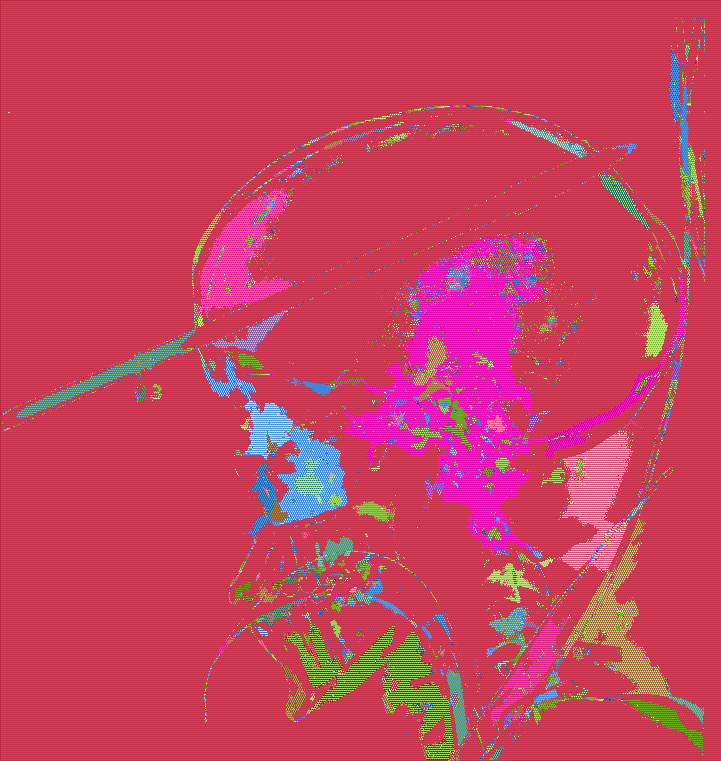
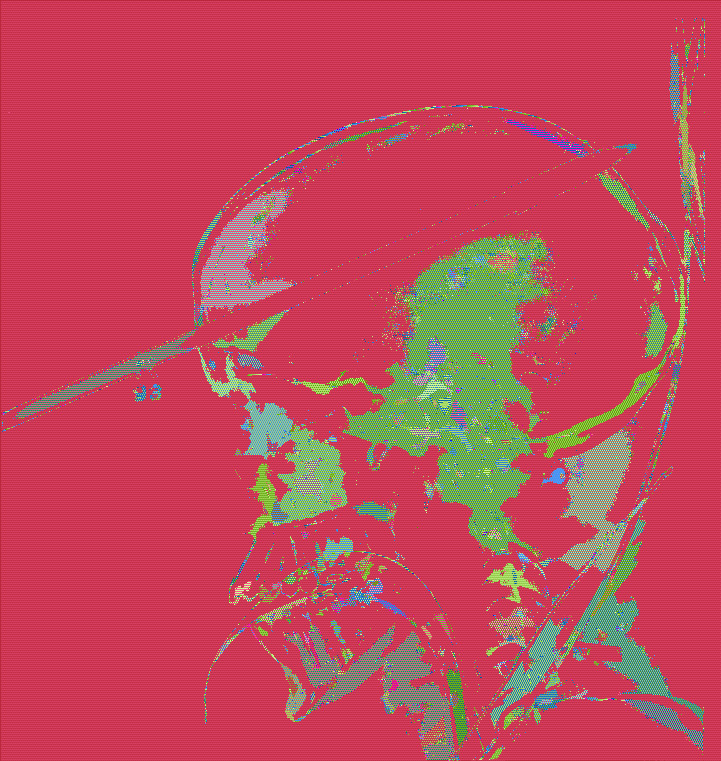
SOBEL_1 10 64

diff --git a/1course.c b/1course.c
@@ -96,7 +96,7 @@ void preprocess_image_Gauss(char * image, int width, int height, int n) {
                 for (y=1; y<=(height-2); y++)
                         for (i=-1; i<=1; i++)
                                 for (j=-1; j<=1; j++)
-                                        image[n*(y+j)*width + i + n*x + j] += s[1-i][1-j];
+                                        image[n*y*width + i + n*x + j] += s[1-i][1-j];
 }
 
 void preprocess_image_Sobel_y(char * image, int width, int height, int n) {
@@ -111,7 +111,7 @@ void preprocess_image_Sobel_y(char * image, int width, int height, int n) {
                 for (y=1; y<=(height-2); y++)
                         for (i=-1; i<=1; i++)
                                 for (j=-1; j<=1; j++)
-                                        image[n*(y+j)*width + i + n*x] += s[1-i][1-j];
+                                        image[n*y*width + i + n*x + j] += s[1-i][1-j];
 }
 void preprocess_image_Sobel_all(char * image_x, char * image_y, int width, int height, int n) {
         int i;
